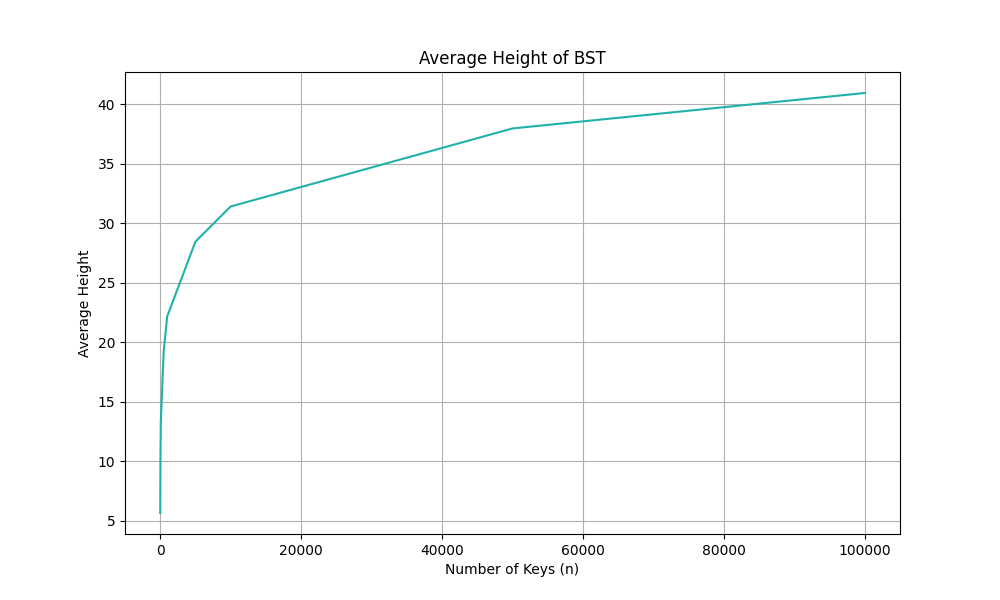
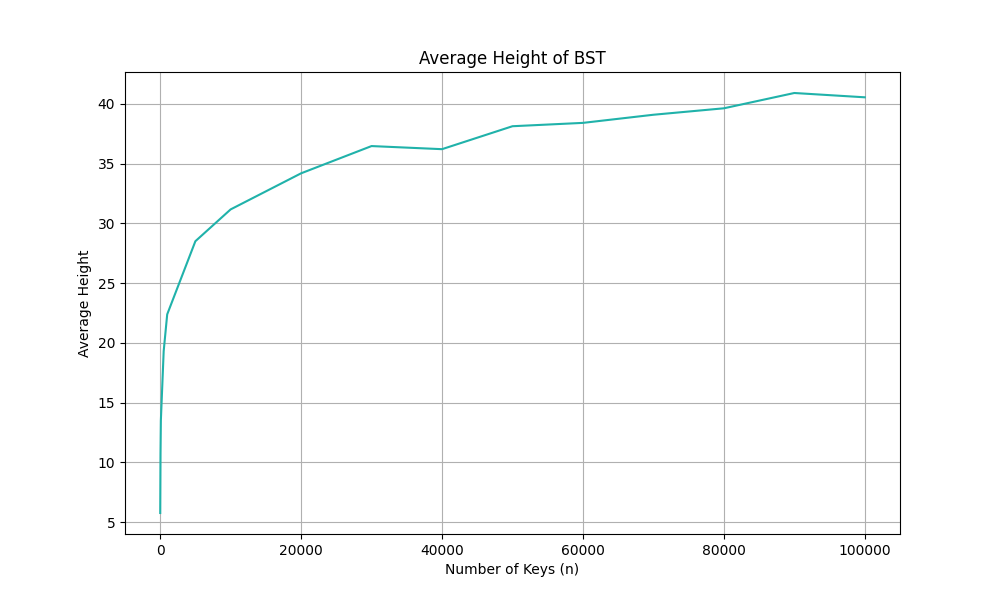
run with new intervals

diff --git a/Assignment 2/plot.py b/Assignment 2/plot.py
@@ -10,7 +10,7 @@ heights = df['avg_height']
 build_times = df['avg_build_time']
 destroy_times = df['avg_destroy_time']
 
-# Plot height vs n (First Plot)
+# Plot height vs n 
 plt.figure(figsize=(10, 6))
 plt.plot(n_values, heights, color='lightseagreen')
 plt.xlabel('Number of Keys (n)')
@@ -20,7 +20,7 @@ plt.grid(True)
 plt.savefig('bst_average_height.png')
 plt.show()
 
-# Plot build/destroy time vs n (Second Plot)
+# Plot build/destroy time vs n 
 plt.figure(figsize=(10, 6))
 plt.plot(n_values, build_times, color = 'purple', label='Average Build Time')
 plt.plot(n_values, destroy_times, color = 'darkcyan', label='Average Destroy Time')

diff --git a/Assignment 2/part_A.cpp b/Assignment 2/part_A.cpp
@@ -134,7 +134,7 @@ int main() {
     vector<double> buildTimes;
     vector<double> destroyTimes;
 
-    int nValues[] = {10, 50, 100, 500, 1000, 5000, 10000, 50000, 100000};
+    int nValues[] = {10, 50, 100, 500, 1000, 5000, 10000, 20000, 30000, 40000, 50000, 60000, 70000, 80000, 90000, 100000};
 
     ofstream file("bst_results.csv");
     file << "n,avg_height,avg_build_time,avg_destroy_time" << endl;
